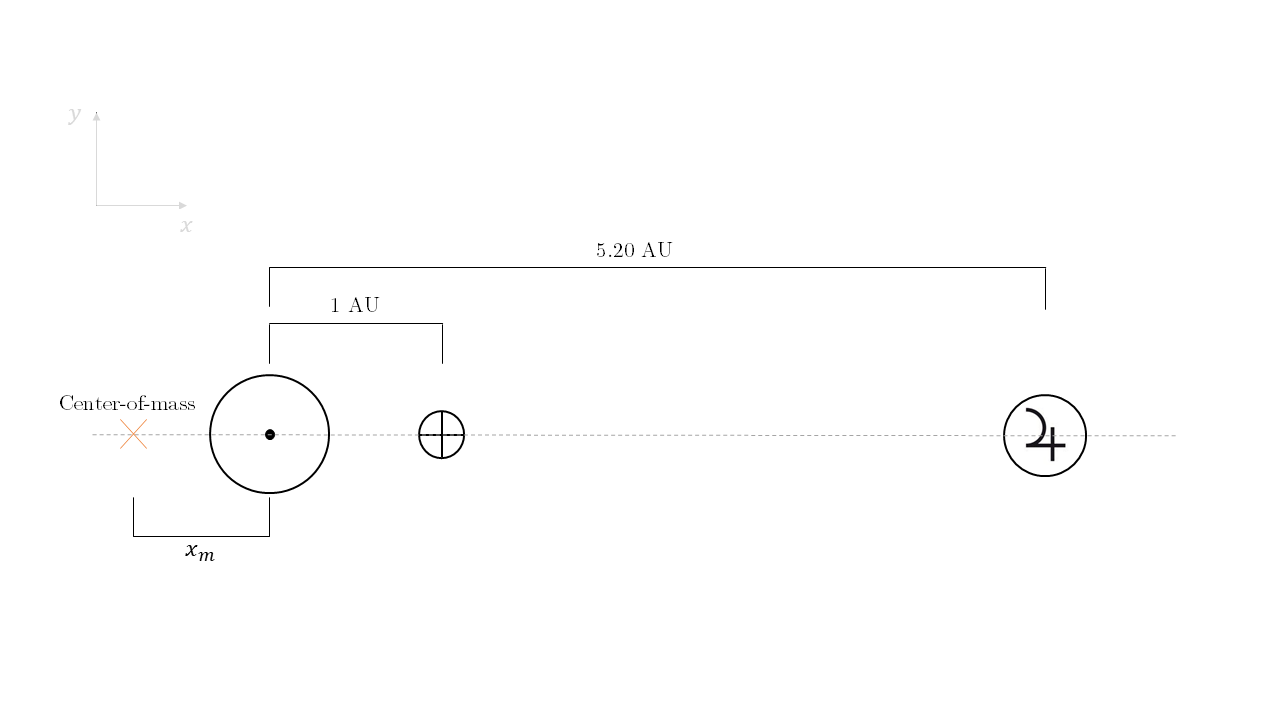
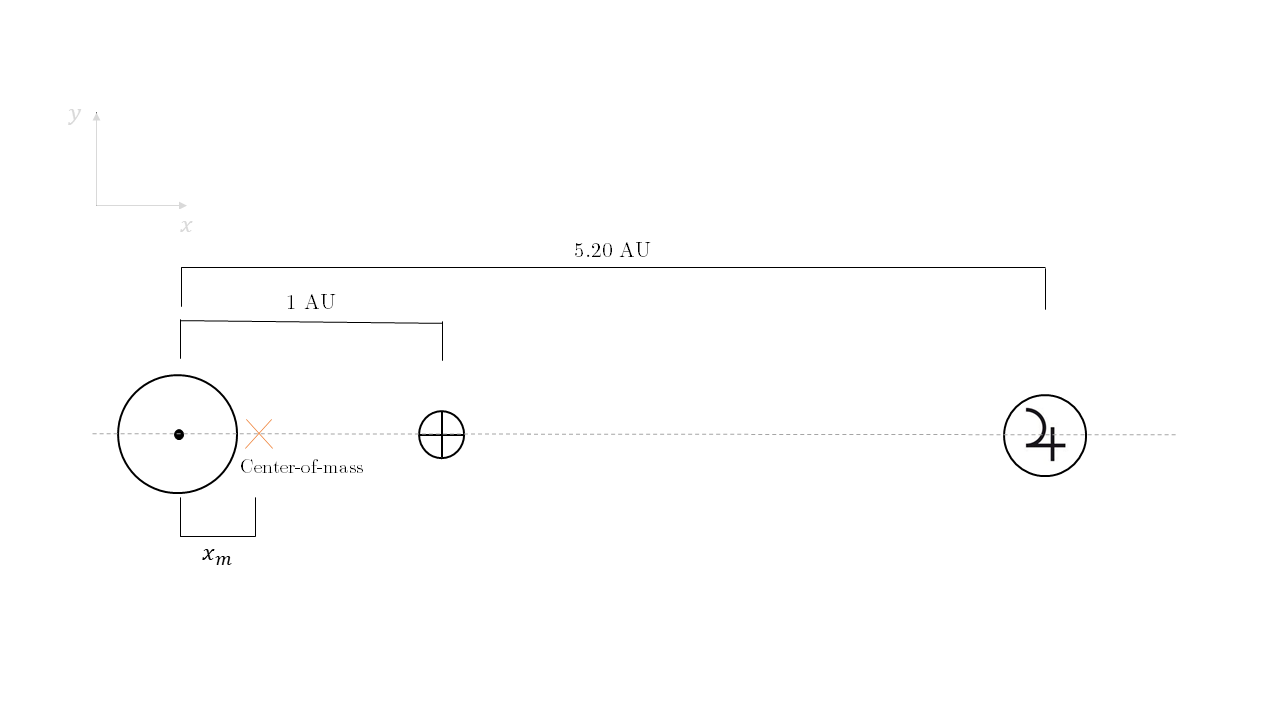
modification centre de masse

diff --git a/Report/main.tex b/Report/main.tex
@@ -301,8 +301,8 @@
                 \begin{equation*}
                     \left\{
                         \begin{aligned}
-                            \frac{1}{2.00191\times 10^{30}}[x_m (2\times10^{24} + 1.9\times10^{27} + 2\times 10^{30}) + (2\times10^{24} + 5.20 \times 1.9 \times 10^{27} = 0 \\
-                            y_m = 0
+                            &\frac{1}{2.00191\times 10^{30}}[x_m (2\times10^{24} + 1.9\times10^{27} + 2\times 10^{30}) + (2\times10^{24} + 5.20 \times 1.9 \times 10^{27} = 0 \\
+                            &y_m = 0
                         \end{aligned}
                     \right.
                 \end{equation*}
@@ -383,6 +383,7 @@
                             v_y &= 2.6355 \times 10^{-3}
                         \end{aligned}
                     \right.
+                    \tag{6}
                 \end{equation*}
             To have a fixed center-of-mass, the Sun will need a velocity $v =
             \left(\begin{array}{c}
